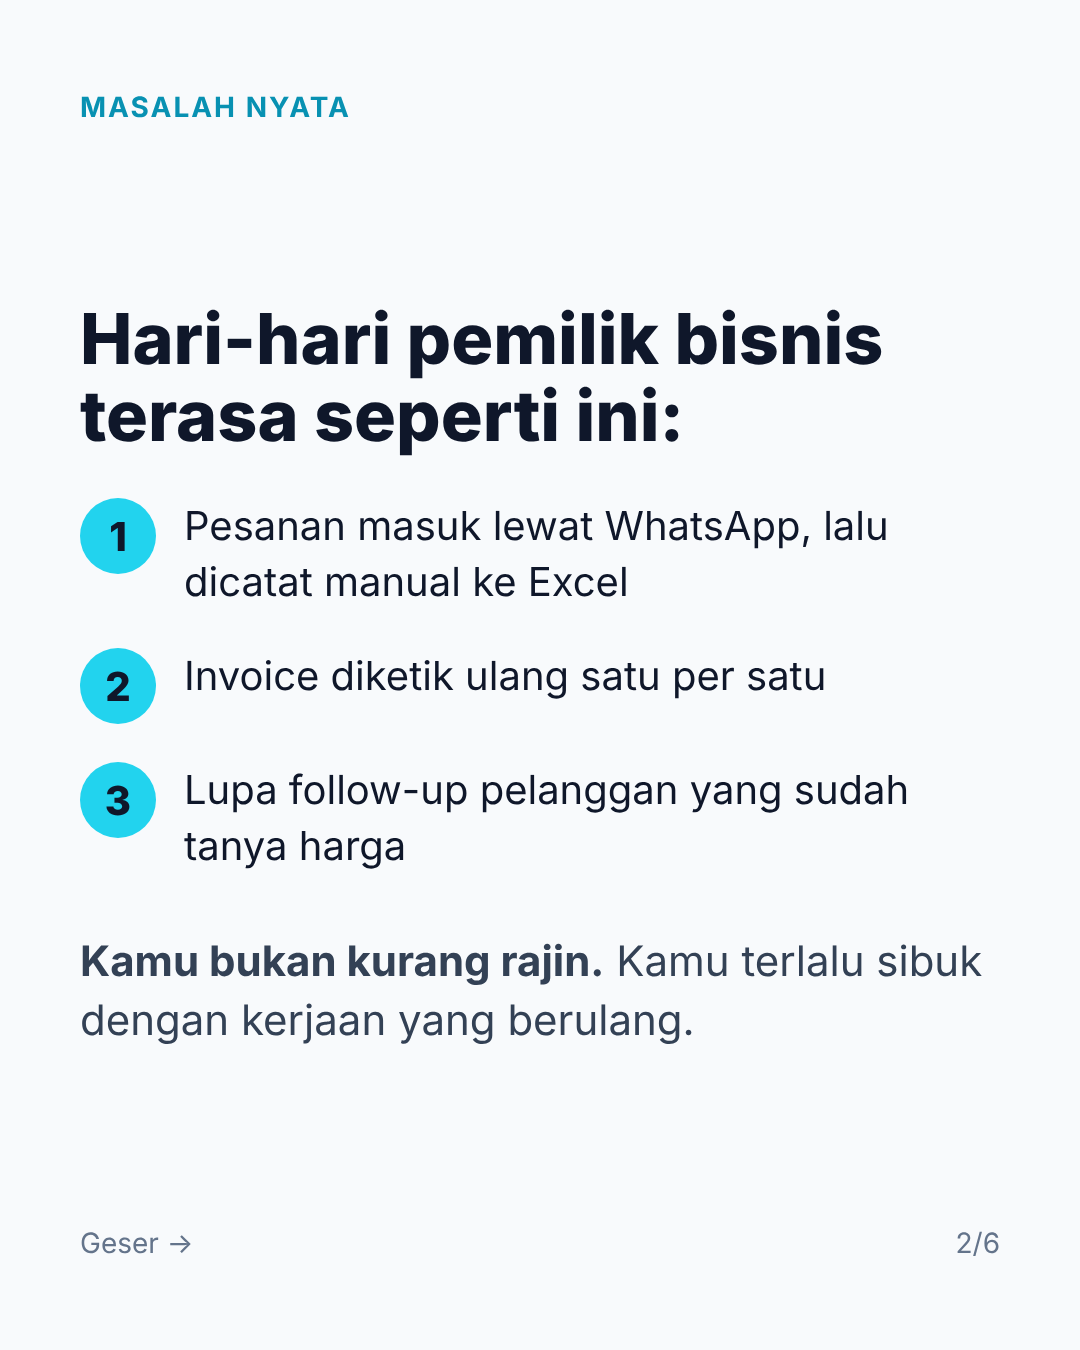
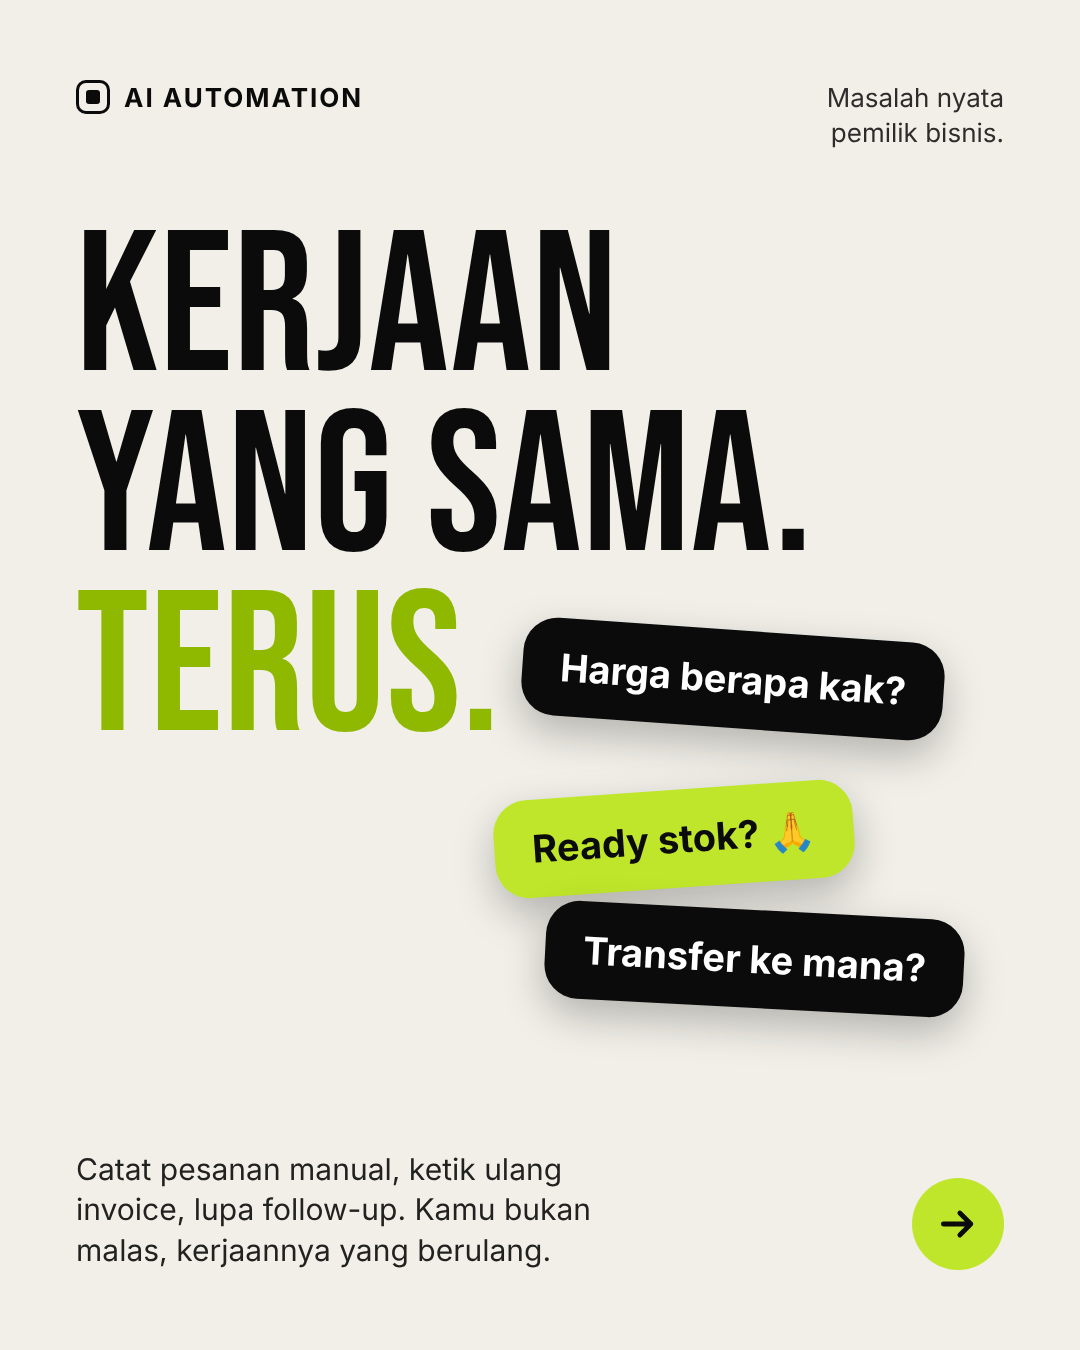
Desain ulang carousel dengan gaya hitam-krem dan aksen lime
Claude-Session: https://claude.ai/code/session_01AFKDf2D6MYvccc19tTSVZF

diff --git a/carousel/carousel.html b/carousel/carousel.html
@@ -1,69 +1,117 @@
-<!doctype html><html lang="id"><head><meta charset="utf-8"><style>
+<!doctype html><html lang="id"><head><meta charset="utf-8">
+<link href="https://fonts.googleapis.com/css2?family=Bebas+Neue&family=Inter:wght@400;500;700&display=swap" rel="stylesheet">
+<style>
+:root{--lime:#bfe62a;--limeD:#8fb800;--ink:#0b0b0b;--cream:#f1efe8}
 *{box-sizing:border-box;margin:0}
-body{background:#222;font-family:system-ui,"Inter",sans-serif}
-.s{width:1080px;height:1350px;padding:90px 80px;display:flex;flex-direction:column;position:relative;color:#f8fafc;background:#0f172a;overflow:hidden}
-.s.alt{background:#f8fafc;color:#0f172a}
-.tag{font-size:28px;font-weight:700;letter-spacing:2px;color:#22d3ee;text-transform:uppercase}
-.alt .tag{color:#0891b2}
-.main{flex:1;display:flex;flex-direction:column;justify-content:center}
-h1{font-size:92px;line-height:1.05;font-weight:800}
-h2{font-size:70px;line-height:1.1;font-weight:800;margin-bottom:44px}
-p{font-size:42px;line-height:1.4;color:#cbd5e1}
-.alt p{color:#334155}
-em{font-style:normal;color:#22d3ee}.alt em{color:#0891b2}
-.big{font-size:260px;font-weight:900;line-height:1;color:#22d3ee}
-.item{display:flex;gap:28px;align-items:flex-start;margin-bottom:38px}
-.num{flex:none;width:76px;height:76px;border-radius:50%;background:#22d3ee;color:#0f172a;font-size:40px;font-weight:800;display:flex;align-items:center;justify-content:center}
-.item p{color:inherit;font-size:40px}
-.foot{display:flex;justify-content:space-between;font-size:28px;color:#64748b}
-.flow{display:flex;flex-direction:column;gap:0}
-.step{background:#1e293b;border-radius:22px;padding:26px 34px;font-size:38px;display:flex;gap:24px;align-items:center}
-.step b{color:#22d3ee;font-size:34px;min-width:50px}
-.arrow{text-align:center;color:#22d3ee;font-size:36px;line-height:1.1}
-.box{background:#0f172a;color:#f8fafc;border-radius:26px;padding:34px 40px;font-size:40px;margin-top:30px;line-height:1.4}
-.btn{display:inline-block;margin-top:40px;background:#22d3ee;color:#0f172a;font-weight:800;font-size:44px;padding:28px 48px;border-radius:20px}
+body{background:#444;font-family:Inter,system-ui,sans-serif}
+.s{width:1080px;height:1350px;position:relative;overflow:hidden;padding:80px 76px;display:flex;flex-direction:column;background:var(--ink);color:#fff}
+.s.c{background:var(--cream);color:var(--ink)}
+.logo{display:flex;align-items:center;gap:14px;font-weight:700;font-size:26px;letter-spacing:2px;z-index:3}
+.logo i{width:34px;height:34px;border-radius:10px;border:3px solid var(--lime);display:block;position:relative}
+.logo i:after{content:"";position:absolute;inset:7px;background:var(--lime);border-radius:3px}
+.c .logo i{border-color:var(--ink)}.c .logo i:after{background:var(--ink)}
+.top{display:flex;justify-content:space-between;align-items:flex-start;z-index:3}
+.top small{font-size:26px;text-align:right;line-height:1.35;opacity:.85}
+h1{font-family:"Bebas Neue",Impact,sans-serif;font-weight:400;text-transform:uppercase;font-size:210px;line-height:.9;letter-spacing:1px;z-index:3;position:relative}
+h1 em{font-style:normal;color:var(--lime)}.c h1 em{color:var(--limeD)}
+.body{font-size:36px;line-height:1.4;font-weight:500;max-width:620px;z-index:3;position:relative}
+.main{flex:1;display:flex;flex-direction:column;justify-content:center;gap:40px;position:relative}
+.foot{display:flex;justify-content:space-between;align-items:flex-end;z-index:3;position:relative}
+.foot p{font-size:30px;line-height:1.35;max-width:560px;opacity:.9}
+.go{width:92px;height:92px;border-radius:50%;background:var(--lime);display:flex;align-items:center;justify-content:center;flex:none}
+.go svg{width:44px;height:44px}
+.pg{position:absolute;top:84px;right:76px;font-size:26px;opacity:.6;z-index:3}
+/* s1 */
+.clock{position:absolute;right:70px;top:190px;width:430px;height:430px;border-radius:50%;border:38px solid var(--lime);z-index:1}
+.clock:before,.clock:after{content:"";position:absolute;left:50%;top:50%;background:#fff;border-radius:10px;transform-origin:50% 100%}
+.clock:before{width:16px;height:150px;margin-left:-8px;margin-top:-150px;transform:rotate(25deg)}
+.clock:after{width:16px;height:110px;margin-left:-8px;margin-top:-110px;transform:rotate(-70deg)}
+.big60{font-family:"Bebas Neue";font-size:520px;line-height:.8;color:var(--lime)}
+/* s2 chats */
+.bub{position:absolute;font-size:38px;font-weight:700;padding:26px 38px;border-radius:34px;z-index:2;box-shadow:0 16px 40px rgba(0,0,0,.25)}
+.bd{background:var(--ink);color:#fff}.bl{background:var(--lime);color:var(--ink)}
+/* s3 */
+.row{display:flex;gap:28px;align-items:center;background:#1a1a1a;border-radius:30px;padding:30px 36px;margin-bottom:22px;font-size:36px;line-height:1.3;font-weight:500}
+.row b{font-family:"Bebas Neue";font-size:96px;color:var(--lime);font-weight:400;line-height:1;min-width:60px}
+/* s4 */
+.chip{display:inline-block;background:var(--ink);color:#fff;border-radius:60px;padding:18px 36px;font-size:34px;font-weight:700;margin:0 14px 14px 0}
+.chip.l{background:var(--lime);color:var(--ink)}
+.rule{background:var(--ink);color:#fff;border-radius:34px;padding:38px 44px;font-size:36px;line-height:1.4}
+.rule b{color:var(--lime)}
+/* s5 */
+.node{display:flex;align-items:center;gap:26px;background:#1a1a1a;border-radius:26px;padding:22px 32px;font-size:34px;font-weight:500;position:relative}
+.node b{background:var(--lime);color:var(--ink);width:56px;height:56px;border-radius:50%;display:flex;align-items:center;justify-content:center;font-size:30px;flex:none}
+.link{width:4px;height:22px;background:var(--lime);margin-left:58px}
+/* s6 */
+.arc{position:absolute;right:-540px;top:430px;opacity:.45;width:900px;height:900px;border-radius:50%;border:10px solid var(--lime);box-shadow:0 0 70px 6px rgba(191,230,42,.55),inset 0 0 60px rgba(191,230,42,.3);z-index:1}
+.pill{display:inline-flex;align-items:center;gap:18px;background:var(--lime);color:var(--ink);font-weight:800;font-size:40px;padding:26px 44px;border-radius:70px}
+.cta li{list-style:none;font-size:38px;font-weight:500;margin-bottom:22px;display:flex;gap:20px;align-items:center}
+.cta li b{color:var(--lime);font-family:"Bebas Neue";font-size:60px;font-weight:400}
 </style></head><body>
+<svg width="0" height="0"><defs><symbol id="ar" viewBox="0 0 24 24"><path d="M4 12h15m-6-6 6 6-6 6" fill="none" stroke="#0b0b0b" stroke-width="2.6" stroke-linecap="round" stroke-linejoin="round"/></symbol></defs></svg>
 
-<div class="s" id="s1"><div class="tag">AI Automation untuk Bisnis</div>
-<div class="main"><div class="big">60</div><h1>jam per bulan<br>habis untuk <em>membalas chat yang sama.</em></h1>
-<p style="margin-top:44px">Hitungannya: 30 chat × 5 menit × 24 hari kerja. Itu lebih dari 7 hari kerja penuh.</p></div>
-<div class="foot"><span>Geser →</span><span>1/6</span></div></div>
+<!-- 1 -->
+<div class="s" id="s1">
+<div class="top"><div class="logo"><i></i>AI AUTOMATION</div><small>Hitung sendiri,<br>angkanya nyata.</small></div>
+<div class="clock"></div>
+<div class="main" style="justify-content:flex-start;padding-top:70px;gap:10px">
+<div class="big60">60</div>
+<h1 style="font-size:190px">JAM HILANG<br><em>TIAP BULAN.</em></h1></div>
+<div class="foot"><p>30 chat sama × 5 menit × 24 hari kerja = lebih dari 7 hari kerja penuh.</p><div class="go"><svg><use href="#ar"/></svg></div></div></div>
 
-<div class="s alt" id="s2"><div class="tag">Masalah Nyata</div>
-<div class="main"><h2>Hari-hari pemilik bisnis terasa seperti ini:</h2>
-<div class="item"><div class="num">1</div><p>Pesanan masuk lewat WhatsApp, lalu dicatat manual ke Excel</p></div>
-<div class="item"><div class="num">2</div><p>Invoice diketik ulang satu per satu</p></div>
-<div class="item"><div class="num">3</div><p>Lupa follow-up pelanggan yang sudah tanya harga</p></div>
-<p style="margin-top:20px"><b>Kamu bukan kurang rajin.</b> Kamu terlalu sibuk dengan kerjaan yang berulang.</p></div>
-<div class="foot"><span>Geser →</span><span>2/6</span></div></div>
+<!-- 2 -->
+<div class="s c" id="s2">
+<div class="top"><div class="logo"><i></i>AI AUTOMATION</div><small>Masalah nyata<br>pemilik bisnis.</small></div>
+<div class="main" style="justify-content:flex-start;padding-top:70px">
+<h1 style="font-size:200px">KERJAAN<br>YANG SAMA.<br><em>TERUS.</em></h1>
+<div class="bub bd" style="right:60px;top:480px;transform:rotate(4deg)">Harga berapa kak?</div>
+<div class="bub bl" style="right:150px;top:640px;transform:rotate(-4deg)">Ready stok? 🙏</div>
+<div class="bub bd" style="right:40px;top:760px;transform:rotate(3deg)">Transfer ke mana?</div></div>
+<div class="foot"><p>Catat pesanan manual, ketik ulang invoice, lupa follow-up. Kamu bukan malas, kerjaannya yang berulang.</p><div class="go"><svg><use href="#ar"/></svg></div></div></div>
 
-<div class="s" id="s3"><div class="tag">Kesalahan Umum</div>
-<div class="main"><h2>3 kesalahan saat semuanya serba <em>manual</em></h2>
-<div class="item"><div class="num">1</div><p>Menyalin data yang sama ke 3 tempat berbeda, rawan salah ketik</p></div>
-<div class="item"><div class="num">2</div><p>Mengandalkan ingatan untuk follow-up, akhirnya ada pelanggan yang terlewat</p></div>
-<div class="item"><div class="num">3</div><p>Mengira otomatisasi itu mahal dan ribet, padahal banyak yang bisa dimulai kecil</p></div></div>
-<div class="foot"><span>Geser →</span><span>3/6</span></div></div>
+<!-- 3 -->
+<div class="s" id="s3">
+<div class="top"><div class="logo"><i></i>AI AUTOMATION</div><small>Kesalahan umum<br>kerja manual.</small></div>
+<div class="main" style="gap:34px">
+<h1 style="font-size:165px">3 JEBAKAN<br><em>KERJA MANUAL.</em></h1>
+<div>
+<div class="row"><b>1</b>Menyalin data yang sama ke 3 tempat. Rawan salah ketik.</div>
+<div class="row"><b>2</b>Follow-up mengandalkan ingatan. Pelanggan terlewat.</div>
+<div class="row"><b>3</b>Mengira otomatisasi itu mahal dan ribet. Padahal bisa mulai kecil.</div></div></div>
+<div class="foot"><p>Satu per satu terlihat sepele. Dijumlah, jadi jam-jam yang hilang.</p><div class="go"><svg><use href="#ar"/></svg></div></div></div>
 
-<div class="s alt" id="s4"><div class="tag">Solusinya</div>
-<div class="main"><h2>AI Automation = asisten yang <em>kerja 24 jam</em></h2>
-<p>Tugas berulang dikerjakan otomatis oleh tools seperti n8n, Make, dan ChatGPT. Kamu cukup atur sekali.</p>
-<div class="box"><b>Aturan gampang:</b><br>Kalau satu tugas kamu kerjakan lebih dari 3 kali seminggu dengan langkah yang sama, itu kandidat untuk diotomatisasi.</div></div>
-<div class="foot"><span>Geser →</span><span>4/6</span></div></div>
+<!-- 4 -->
+<div class="s c" id="s4">
+<div class="top"><div class="logo"><i></i>AI AUTOMATION</div><small>Solusinya.</small></div>
+<div class="main">
+<h1 style="font-size:165px">KERJA 24 JAM.<br><em>TANPA LEMBUR.</em></h1>
+<p class="body" style="max-width:800px">AI Automation menjalankan tugas berulang secara otomatis. Kamu cukup atur sekali.</p>
+<div><span class="chip l">n8n</span><span class="chip">Make</span><span class="chip">ChatGPT</span><span class="chip">API</span></div>
+<div class="rule"><b>Aturan gampang:</b> tugas yang kamu ulang lebih dari 3x seminggu dengan langkah sama? Itu kandidat otomatisasi.</div></div>
+<div class="foot"><p>Fokus ke jualan dan pelanggan, bukan copy-paste.</p><div class="go"><svg><use href="#ar"/></svg></div></div></div>
 
-<div class="s" id="s5"><div class="tag">Contoh Workflow</div>
-<div class="main"><h2 style="font-size:60px;margin-bottom:30px">Pesanan masuk, <em>tanpa kamu ketik ulang</em></h2>
-<div class="flow">
-<div class="step"><b>1</b>Pelanggan isi form pesanan</div><div class="arrow">↓</div>
-<div class="step"><b>2</b>n8n / Make menangkap datanya</div><div class="arrow">↓</div>
-<div class="step"><b>3</b>Data masuk Google Sheets otomatis</div><div class="arrow">↓</div>
-<div class="step"><b>4</b>ChatGPT menulis balasan konfirmasi</div><div class="arrow">↓</div>
-<div class="step"><b>5</b>Terkirim ke WhatsApp/email + kamu dapat notifikasi</div></div>
-<p style="margin-top:30px;font-size:36px">Dari ±10 menit per pesanan menjadi hitungan detik (contoh ilustrasi).</p></div>
-<div class="foot"><span>Geser →</span><span>5/6</span></div></div>
+<!-- 5 -->
+<div class="s" id="s5">
+<div class="top"><div class="logo"><i></i>AI AUTOMATION</div><small>Contoh workflow<br>toko online.</small></div>
+<div class="main" style="gap:28px">
+<h1 style="font-size:170px">PESANAN MASUK.<br><em>SEMUA BERES.</em></h1>
+<div>
+<div class="node"><b>1</b>Pelanggan isi form pesanan</div><div class="link"></div>
+<div class="node"><b>2</b>n8n / Make menangkap datanya</div><div class="link"></div>
+<div class="node"><b>3</b>Masuk Google Sheets otomatis</div><div class="link"></div>
+<div class="node"><b>4</b>ChatGPT menulis balasan konfirmasi</div><div class="link"></div>
+<div class="node"><b>5</b>Terkirim ke WhatsApp + kamu dapat notifikasi</div></div></div>
+<div class="foot"><p>Contoh ilustrasi: dari ±10 menit per pesanan jadi hitungan detik.</p><div class="go"><svg><use href="#ar"/></svg></div></div></div>
 
-<div class="s alt" id="s6"><div class="tag">Langkah Selanjutnya</div>
-<div class="main"><h2>Mulai dari <em>1 pekerjaan</em> yang paling bikin capek</h2>
-<p>📌 <b>Simpan</b> postingan ini sebagai panduan kecil.<br><br>💬 Tulis di komentar: kerjaan manual apa yang paling menyita waktumu?<br><br>📩 Mau dibantu otomatisasi? <b>DM kata "OTOMATIS".</b></p>
-<div><span class="btn">Simpan &amp; Kirim DM</span></div></div>
-<div class="foot"><span>Terima kasih sudah membaca</span><span>6/6</span></div></div>
+<!-- 6 -->
+<div class="s" id="s6">
+<div class="top"><div class="logo"><i></i>AI AUTOMATION</div><small>Siap mulai?</small></div>
+<div class="arc"></div>
+<div class="main">
+<h1 style="font-size:170px">MULAI DARI<br><em>1 KERJAAN</em><br>PALING CAPEK.</h1>
+<ul class="cta">
+<li><b>01</b>Simpan postingan ini</li>
+<li><b>02</b>Komen: kerjaan apa yang paling capek?</li>
+<li><b>03</b>Mau dibantu? DM aku</li></ul></div>
+<div class="foot"><span class="pill">DM: "OTOMATIS" <svg width="40" height="40" style="width:40px;height:40px"><use href="#ar"/></svg></span><span style="font-size:26px;opacity:.6">6/6</span></div></div>
 </body></html>
